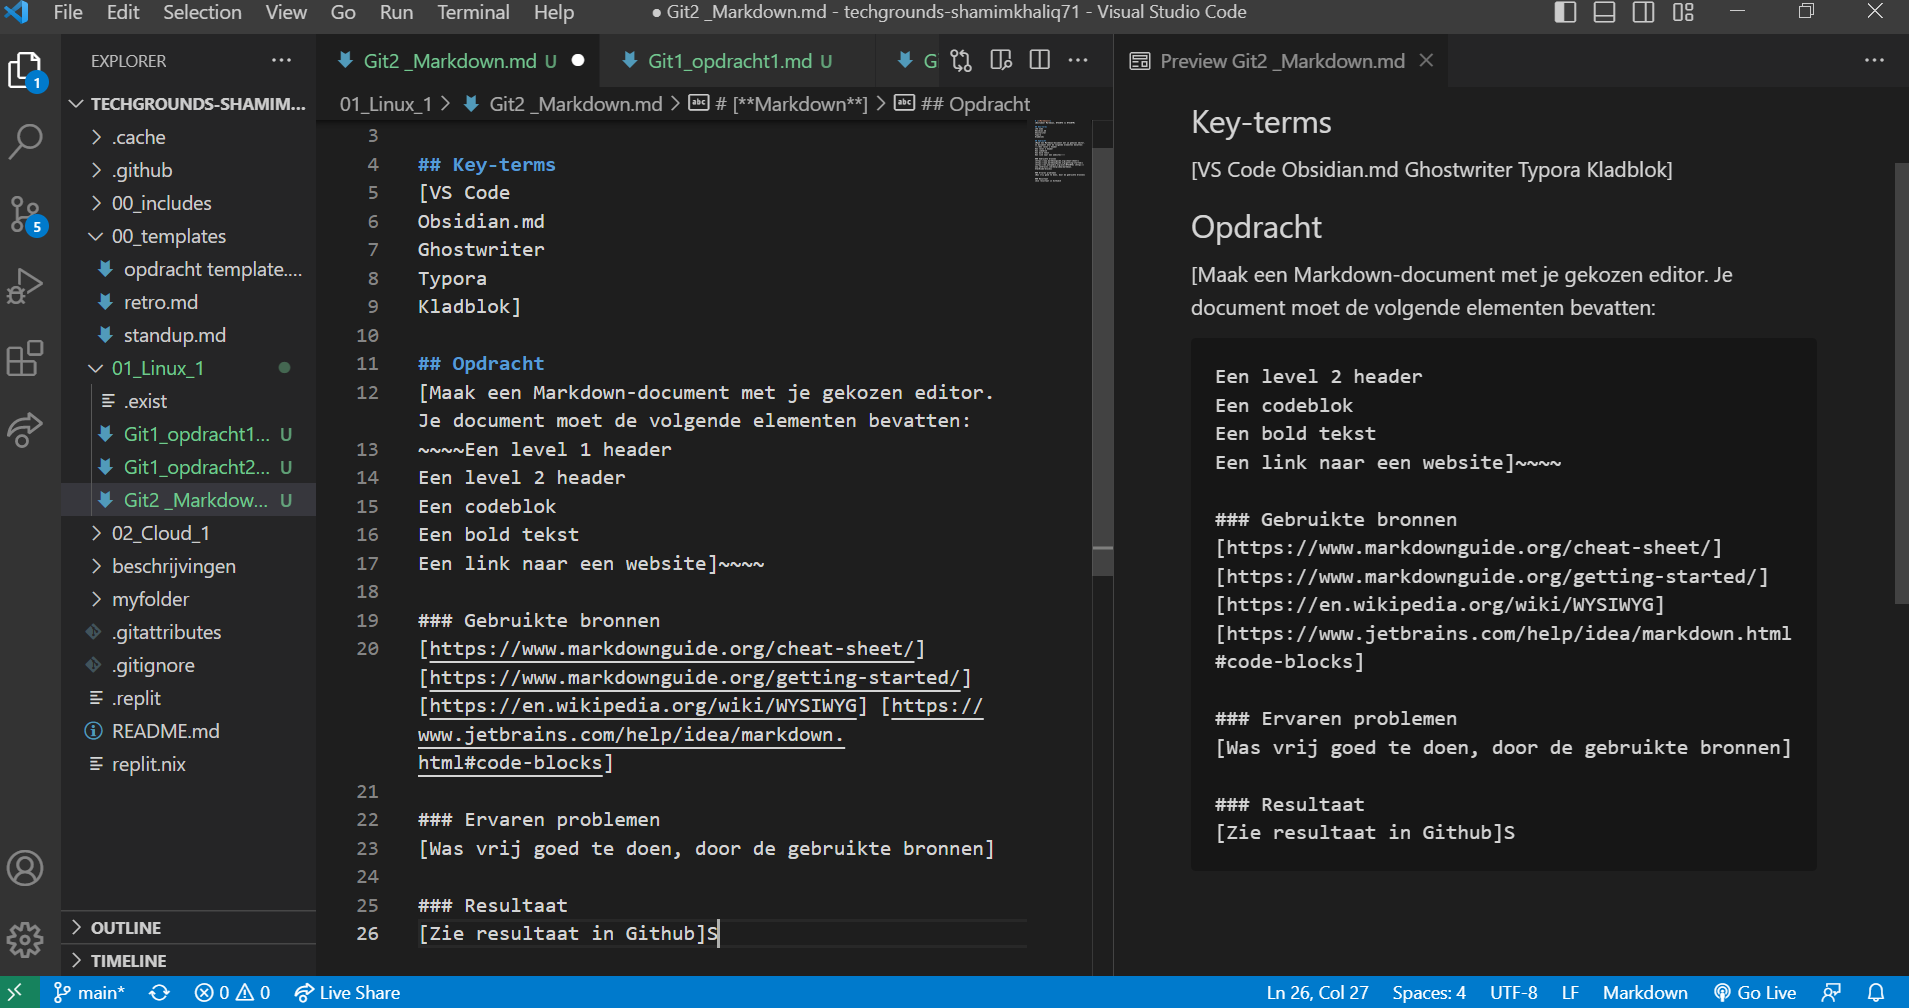
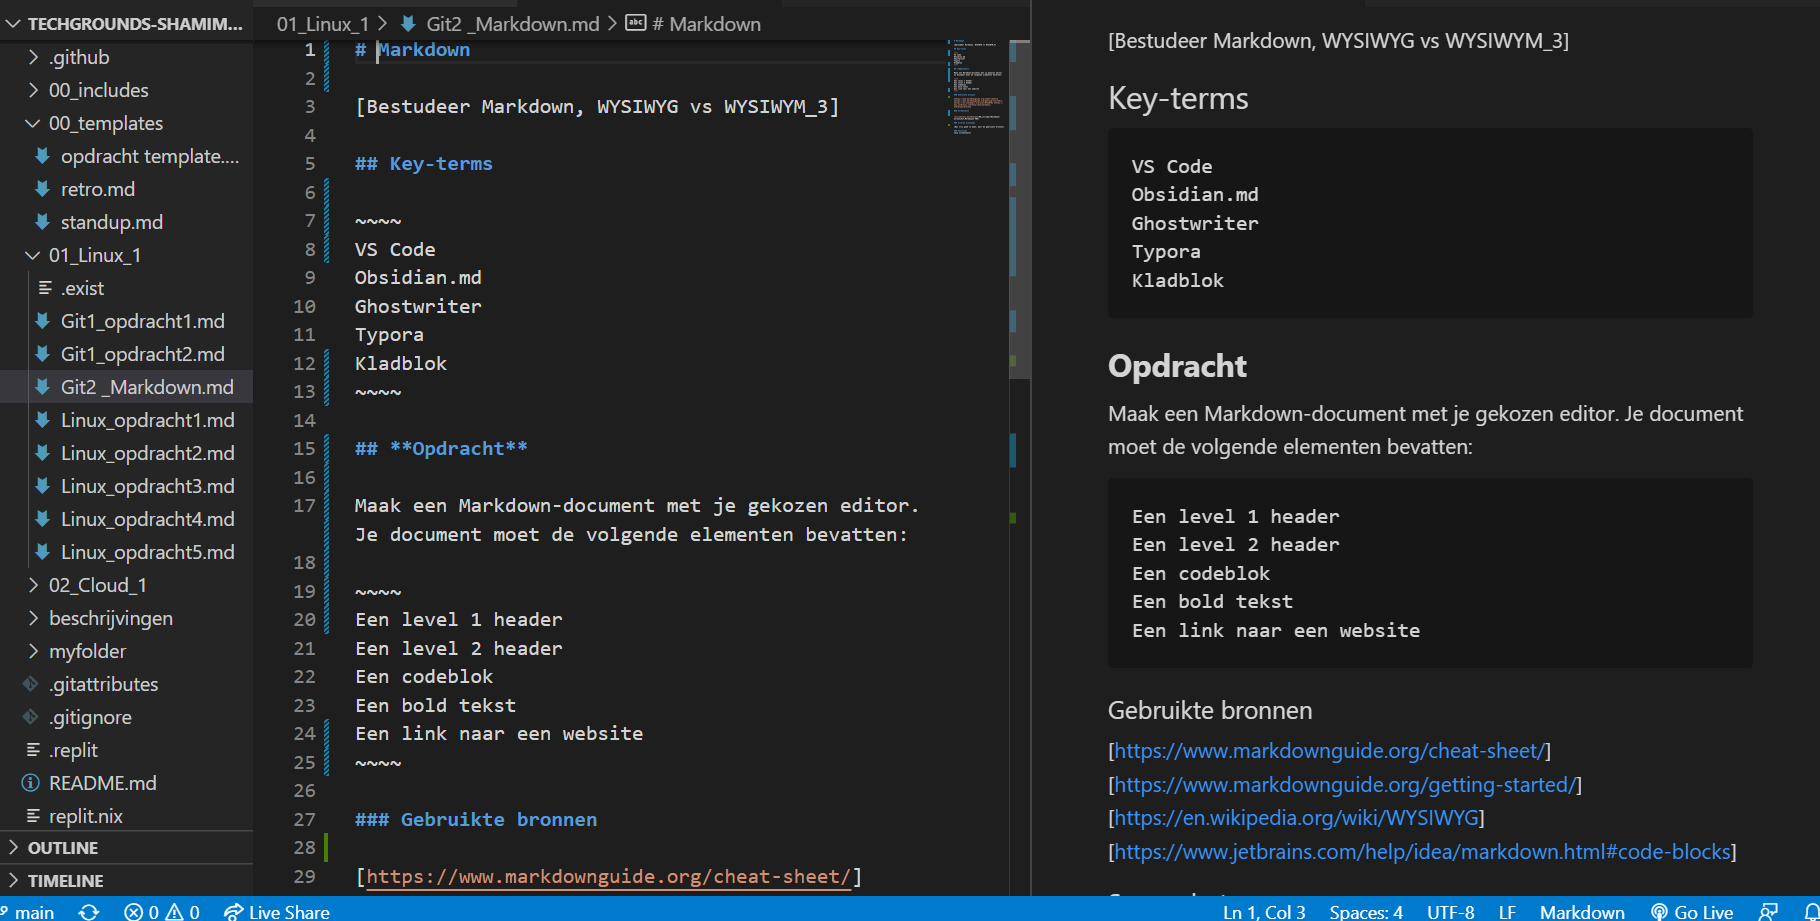
added stuff

Changed region(s): [[0.0, 0.0, 1.0, 1.0], [0.9846, 0.152, 1.0, 0.608]]

diff --git a/01_Linux_1/Git1_opdracht1.md b/01_Linux_1/Git1_opdracht1.md
@@ -1,32 +1,37 @@
-# [GITHUB]
-[GITHUB begrijpen en account crieeren_1]
+# GITHUB
+
+GITHUB account aanmaken en leren ermee te werken.
 
 # Key-terms
-[Repository: Opslagplaats om alleen aan een project te werken of de anderen uit nodigen om samen eraan te werken of feedback te ontvangen]
-[Cloning:Copie maken vanuit de Clouds naar je locale computer en sync via GIT met de Cloud versie]
-[Committing/Pushing: Comments en feedback betreft veranderingen in the repository Je kan ook een ReadMe file eraan toevoegen met extra informatie]
-[Brances: Dit zijn paden om je werk prive te houden en eraan te werken totdat je klaar bent om het te delen met anderen. Main Branche wordt gecrieerd wanner je een repository aanmaakt,sub-branches kan je eraan mergen wanneer je het goed genoeg vind  en klaar bent]
-[Fork:Een andere manier om een copie te maken van je repository, maar meestal gebruikt wanneer je aan iemand anders project meewerkt]
-[Pull: Verzoek om teamleden te laten weten dat je verandering hebt aangebracht of feeback wilt vragen. Eenmaal geopend, kan de discussie beginnen en wanneer klaar, dan weer meregn met de Main branche]
-[Issues: met Issues kan je, je werk volgen op GitHub, waar de ontwikkeling plaatsvindt. Dit maak je werk overzichtelijk. Issues kan je koppelen aan een Pull om aan te geven dat je bezig bent]
+
+- Repository: Opslagplaats om alleen aan een project te werken of de anderen uit nodigen om samen eraan te werken of feedback te ontvangen
+- Cloning:Copie maken vanuit de Clouds naar je locale computer en sync via GIT met de Cloud versie.
+- Committing/Pushing: Comments en feedback betreft veranderingen in the repository Je kan ook een ReadMe file eraan toevoegen met extra informatie.
+- Brances: Dit zijn paden om je werk prive te houden en eraan te werken totdat je klaar bent om het te delen met anderen. Main Branche wordt gecrieerd wanner je een repository aanmaakt,sub-branches kan je eraan mergen wanneer je het goed genoeg vind  en klaar bent.
+- Fork:Een andere manier om een copie te maken van je repository, maar meestal gebruikt wanneer je aan iemand anders project meewerkt.
+- Pull: Verzoek om teamleden te laten weten dat je verandering hebt aangebracht of feeback wilt vragen. Eenmaal geopend, kan de discussie beginnen en wanneer klaar, dan weer meregn met de Main branche.
+- Issues: met Issues kan je, je werk volgen op GitHub, waar de ontwikkeling plaatsvindt. Dit maak je werk overzichtelijk. Issues kan je koppelen aan een Pull om aan te geven dat je bezig bent.
 
 ## Opdracht 1
-[Maak een GitHub account als je er nog geen hebt
-Maak een repository op je GitHub account voor je portfolio
-Geef permissies aan je teamgenoten om de repository te gebruiken
-Push je code naar je repository
-Pull / Clone een repository van je peer]
+
+- Maak een GitHub account als je er nog geen hebt
+- Maak een repository op je GitHub account voor je portfolio
+- Geef permissies aan je teamgenoten om de repository te gebruiken
+- Push je code naar je repository
+- Pull / Clone een repository van je peer
+
+![screenshot1](/00_includes/Git_1/Git_opdracht1/screenshot1.jpg)
 
 ### Gebruikte bronnen
+
 [https://github.com/techgrounds/git-github-fundamentals-shamimkhaliq71]
 [https://www.youtube.com/watch?v=w3jLJU7DT5E]
 [https://www.google.com/search?q=how+to+clone+a+git+repository&client=firefox-b-d&source=lnms&sa=X&ved=2ahUKEwiwhZGZqK7_AhXP5KQKHSzRBrkQ_AUoAHoECAoQAg&biw=1280&bih=567&dpr=1.5]
 
-## Screenshot
-![screenshot1](/00_includes/Git_1/Git_opdracht1/screenshot1.jpg)
-
 ### Ervaren problemen
-[Dit is allemaal erg nieuw voor mij, een nieuwe richting, dus duurde veel langer om dingen te begrijpen. Maar niet schrikken van de nieuwe termen en veel vragen stellen aan anderen en veel Google en Youtube gebruiken]
+
+Dit is allemaal erg nieuw voor mij, een nieuwe richting, dus duurde veel langer om dingen te begrijpen. Maar niet schrikken van de nieuwe termen en veel vragen stellen aan anderen en veel Google en Youtube gebruiken
 
 ### Resultaat
-[Screen shots Cloning code]
+
+Screen shots Cloning code

diff --git a/01_Linux_1/Linux_opdracht5.md b/01_Linux_1/Linux_opdracht5.md
@@ -1,25 +1,36 @@
-# [File permissions]
-[Manage user rights within Linux_5]
+# File permissions
+
+Manage user rights within Linux
 
 ## Key-terms
-[Schrijf hier een lijst met belangrijke termen met eventueel een korte uitleg.]
 
-## Opdracht
-[Create a text file.
-Make a long listing to view the file’s permissions. Who is the file’s owner and group? What kind of permissions does the file have?
-Make the file executable by adding the execute permission (x).
-Remove the read and write permissions (rw) from the file for the group and everyone else, but not for the owner. Can you still read it?
-Change the owner of the file to a different user. If everything went well, you shouldn’t be able to read the file unless you assume root privileges with ‘sudo’.
-Change the group ownership of the file to a different group.]
+Permissions, Root Linux, pwd, cd, ls, echo, Redirection, grep, cat, sudo, chmod, chown, rwx
+
+## Opdracht 5
+
+- Create a text file.
+![creat a text file](/00_includes/Linux/Linux_opdracht5/Linux_newuser.PNG)
+- Make a long listing to view the file’s permissions. Who is the file’s owner and group? What kind of permissions does the file have?
+![Listing_file_permission](/00_includes/Linux/Linux_opdracht5/Listing_file_permission.PNG)
+- Make the file executable by adding the execute permission (x).
+![Excution_xpermission](/00_includes/Linux/Linux_opdracht5/Execution_xpermission.PNG)
+- Remove the read and write permissions (rw) from the file for the group and everyone else, but not for the owner. Can you still read it?
+![Xpermissions_user_only](/00_includes/Linux/Linux_opdracht5/Xpermissions_user_only.PNG)
+![Only_user_permissions](/00_includes/Linux/Linux_opdracht5/Only_user_permissions.PNG) 
+![User_can_still_read](/00_includes/Linux/Linux_opdracht5/User_can_still_read.PNG)
+- Change the owner of the file to a different user. If everything went well, you shouldn’t be able to read the file unless you assume root privileges with ‘sudo’.
+![Change_owner_file](/00_includes/Linux/Linux_opdracht5/Change_owner_file.PNG) 
+- Change the group ownership of the file to a different group.
+![Keep_permissions_file](/00_includes/Linux/Linux_opdracht5/Keep_permissions_file.PNG)
 
 ### Gebruikte bronnen
+
 [https://unstop.com/blog/how-to-create-a-file-in-linux] [https://www.freecodecamp.org/news/linux-chmod-chown-change-file-permissions/] [https://linuxize.com/post/linux-chown-command/]
 
-### Screenshots
-![Linux_newuser](/00_includes/Linux/Linux_opdracht5/Linux_newuser.PNG) ![Listing_file_permission](/00_includes/Linux/Linux_opdracht5/Listing_file_permission.PNG)![Excution_xpermission](/00_includes/Linux/Linux_opdracht5/Execution_xpermission.PNG) ![Xpermissions_user_only](/00_includes/Linux/Linux_opdracht5/Xpermissions_user_only.PNG) ![Only_user_permissions](/00_includes/Linux/Linux_opdracht5/Only_user_permissions.PNG) ![User_can_still_read](/00_includes/Linux/Linux_opdracht5/User_can_still_read.PNG) ![Change_owner_file](/00_includes/Linux/Linux_opdracht5/Change_owner_file.PNG) ![Keep_permissions_file](/00_includes/Linux/Linux_opdracht5/Keep_permissions_file.PNG)
-
 ### Ervaren problemen
-[I need to understand the different commands for different rights of ]
+
+I need to understand the different commands for different rights of
 
 ### Resultaat
-[See screenshots]
+
+See screenshots

diff --git a/01_Linux_1/Linux_opdracht4.md b/01_Linux_1/Linux_opdracht4.md
@@ -1,25 +1,34 @@
-# [Users and groups]
-[Manage Users and User accounts_4]
+# Users and groups
+
+Manage Users and User accounts
 
 ## Key-terms
-[The standard input (stdin) is the keyboard] 
-[Root, Linux, ssh, PKI, Whoami, pwd, cd, ls, echo, Redirection, grep, cat, type, findstr, sudo]
 
-## Opdracht
-[Create a new user in your VM. 
-The new user should be part of an admin group.
-The new user should have a password.
-The new user should be able to use ‘sudo’
-Locate the files that store users, passwords, and groups. See if you can find your newly created user’s data in there.]
+The standard input (stdin) is the keyboard 
+Root Linux, ssh, PKI, Whoami, pwd, cd, ls, echo, Redirection, grep, cat, sudo, adduser, useradd
+
+## Opdracht 4
+
+- Create a new user in your VM. 
+![Newuser_simon](/00_includes/Linux/Linux_opdracht4/Newuser_simon.PNG)
+- The new user should be part of an admin group.
+![Newuser_mark_admin](/00_includes/Linux/Linux_opdracht4/Newuser_mark_admin.PNG) 
+- The new user should have a password.
+![Newuser_passwd_group](/00_includes/Linux/Linux_opdracht4/Newuser_passwd_group.PNG)
+- The new user should be able to use ‘sudo’
+![Sudo_rechten_mark](/00_includes/Linux/Linux_opdracht4/Sudo_Rechten_Mark.PNG)
+- Locate the files that store users, passwords
+and groups. See if you can find your newly created user’s data in there.
+![Newuser_data](/00_includes/Linux/Linux_opdracht4/Newuser_data.PNG)
 
 ### Gebruikte bronnen
+
 [https://wiki.archlinux.org/title/Users_and_groups] 
 
-### Screenshots
-![Newuser_simon](/00_includes/Linux/Linux_opdracht4/Newuser_simon.PNG) ![Newuser-homedirectory](/00_includes/Linux/Linux_opdracht4/Newuser_homedirectory.PNG) ![Newuser_mark_admin](/00_includes/Linux/Linux_opdracht4/Newuser_mark_admin.PNG) ![Newuser_passwd_group](/00_includes/Linux/Linux_opdracht4/Newuser_passwd_group.PNG) ![Sudo_rechten_mark](/00_includes/Linux/Linux_opdracht4/Sudo_Rechten_Mark.PNG)![Newuser_data](/00_includes/Linux/Linux_opdracht4/Newuser_data.PNG)
-
 ### Ervaren problemen
-[Same issue as last opdracht 3, command not working,and User mark didsnt have all the right yet, because he was created with a lower command (useradd instead of adduser) and that makes a differencet to the right a user has]
+
+Same issue as last opdracht 3, command not working,and User mark didsnt have all the right yet, because he was created with a lower command (useradd instead of adduser) and that makes a differencet to the rights a user has
 
 ### Resultaat
-[See screenshots]
+
+See screenshots

diff --git a/01_Linux_1/Git1_opdracht2.md b/01_Linux_1/Git1_opdracht2.md
@@ -11,11 +11,15 @@
 [Issues: met Issues kan je, je werk volgen op GitHub, waar de ontwikkeling plaatsvindt. Dit maak je werk overzichtelijk. Issues kan je koppelen aan een Pull om aan te geven dat je bezig bent]
 
 ## Opdracht 2
-[Maak een nieuwe repository aan voor je portfolio
-Push je notities naar de repository
-Deel deze repository met je Learning Coach]
+
+- Maak een nieuwe repository aan voor je portfolio
+- Push je notities naar de repository
+- Deel deze repository met je Learning Coach.
+
+
 
 ### Gebruikte bronnen
+
 [https://github.com/techgrounds/git-github-fundamentals-shamimkhaliq71]
 [https://www.youtube.com/watch?v=w3jLJU7DT5E]
 [https://www.google.com/search?q=how+to+clone+a+git+repository&client=firefox-b-d&source=lnms&sa=X&ved=2ahUKEwiwhZGZqK7_AhXP5KQKHSzRBrkQ_AUoAHoECAoQAg&biw=1280&bih=567&dpr=1.5]
@@ -27,7 +31,9 @@ Deel deze repository met je Learning Coach]
 ![JH_clone](/00_includes/Git_1/Git_opdracht2/JH-Clone2.jpg)
 
 ### Ervaren problemen
-[Zoals eerder ook vermeld, dit is allemaal erg nieuw voor mij, een nieuwe richting, dus duurde veel langer om dingen te begrijpen. Blijven vragen stellen aan anderen en Google en youtube are my best friend. En vooral tijdig aan geven als het echt niet lukt]
+
+.Zoals eerder ook vermeld, dit is allemaal erg nieuw voor mij, een nieuwe richting, dus duurde veel langer om dingen te begrijpen. Blijven vragen stellen aan anderen en Google en youtube are my best friend. En vooral tijdig aan geven als het echt niet lukt.
 
 ### Resultaat
-[Het resultaat is te vinden in Github, zoals men kan zien, is allemaal goed doorgekomen via VS Code en gecommit en gepushed via Github desktop]
+
+Het resultaat is te vinden in Github, zoals men kan zien, is allemaal goed doorgekomen via VS Code en gecommit en gepushed via Github desktop.

diff --git a/01_Linux_1/Git2 _Markdown.md b/01_Linux_1/Git2 _Markdown.md
@@ -1,30 +1,39 @@
-# [**Markdown**]
-[Bestudeer Markdown, WYSIWYG vs WYSIWYM_3]
+# Markdown
+
+Bestudeer Markdown, WYSIWYG vs WYSIWYM
 
 ## Key-terms
-[VS Code
+
+VS Code
 Obsidian.md
 Ghostwriter
 Typora
-Kladblok]
+Kladblok
 
-## Opdracht
-[Maak een Markdown-document met je gekozen editor. Je document moet de volgende elementen bevatten:
-~~~~Een level 1 header
+
+## **Opdracht 2**
+
+Maak een Markdown-document met je gekozen editor. Je document moet de volgende elementen bevatten:
+
+~~~~
+Een level 1 header
 Een level 2 header
 Een codeblok
 Een bold tekst
-Een link naar een website]~~~~
+Een link naar een website 
+~~~~
 
-### Gebruikte bronnen
-[https://www.markdownguide.org/cheat-sheet/] [https://www.markdownguide.org/getting-started/] [https://en.wikipedia.org/wiki/WYSIWYG] [https://www.jetbrains.com/help/idea/markdown.html#code-blocks]
+![Screenshot_Markdown1](/00_includes/Markdown/Screenshot_Markdown1.PNG)
 
-## Screenshots 
-![Screenshot_markdown1](/00_includes/Markdown/Screenshot_Markdown1.PNG)
 ![screenshot_markdown2](/00_includes/Markdown/Screenshot_Markdown2.PNG)
 
+### Gebruikte bronnen
+
+[https://www.markdownguide.org/cheat-sheet/] [https://www.markdownguide.org/getting-started/] [https://en.wikipedia.org/wiki/WYSIWYG] [https://www.jetbrains.com/help/idea/markdown.html#code-blocks]
+
 ### Ervaren problemen
-[Was vrij goed te doen, door de gebruikte bronnen]
+
+Was vrij goed te doen, door de gebruikte bronnen.
 
 ### Resultaat
-[Zie screenshots]
+See screenshots
